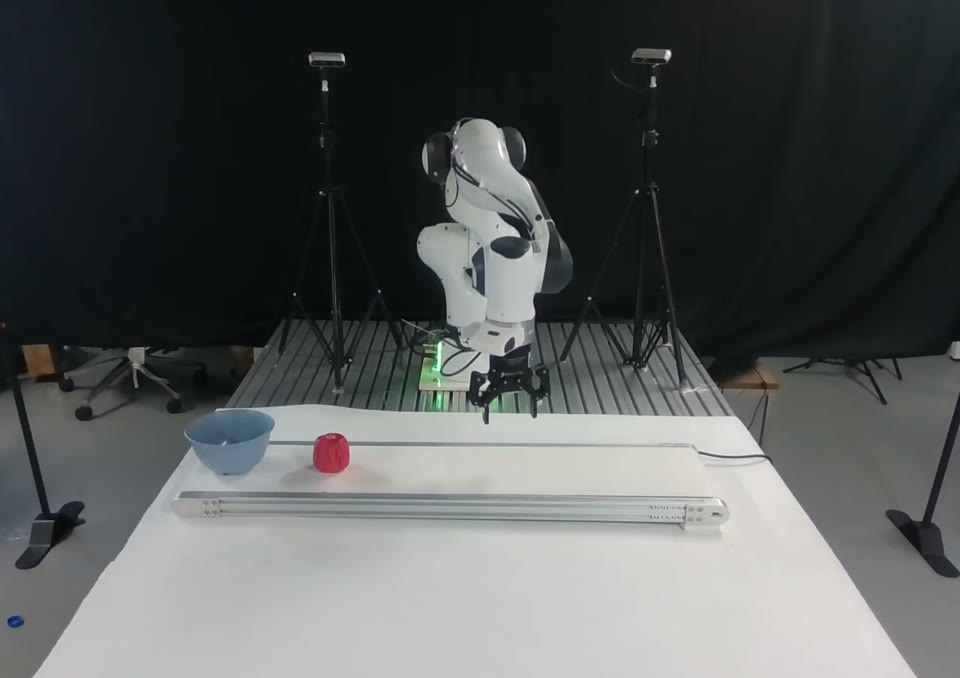
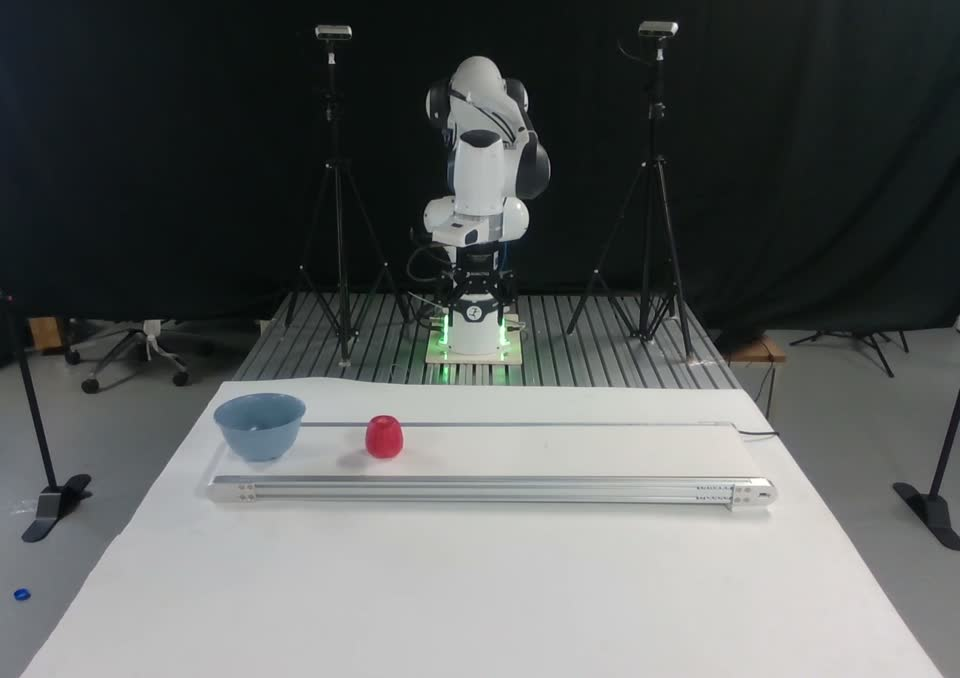
Replace conveyor comparison rollout

diff --git a/docs/app.js b/docs/app.js
@@ -224,9 +224,11 @@ function updateComparison() {
   comparisonVideos.forEach(({ video, method, task }) => {
     video.pause();
     const filename = comparisonFilename(task, method);
-    const version = filename === "02-blind-model-comparison__task-02__model-b__trial-01__camera-04.mp4"
-      ? "?v=42cc6b6e"
-      : "";
+    const version = filename === "02-blind-model-comparison__task-01__model-b__trial-01__camera-04.mp4"
+      ? "?v=a99c3f51"
+      : filename === "02-blind-model-comparison__task-02__model-b__trial-01__camera-04.mp4"
+        ? "?v=42cc6b6e"
+        : "";
     video.style.setProperty("--comparison-aspect", state.camera === "04" ? "1280 / 904" : "16 / 9");
     video.addEventListener("loadedmetadata", () => {
       if (loadVersion !== comparisonLoadVersion) return;
@@ -235,7 +237,10 @@ function updateComparison() {
     }, { once: true });
     video.src = `${assetUrl(filename)}${version}`;
     if (state.camera === "04") {
-      video.poster = posterFilename(task, method);
+      const posterVersion = filename === "02-blind-model-comparison__task-01__model-b__trial-01__camera-04.mp4"
+        ? "?v=a99c3f51"
+        : "";
+      video.poster = `${posterFilename(task, method)}${posterVersion}`;
     } else {
       video.removeAttribute("poster");
     }
